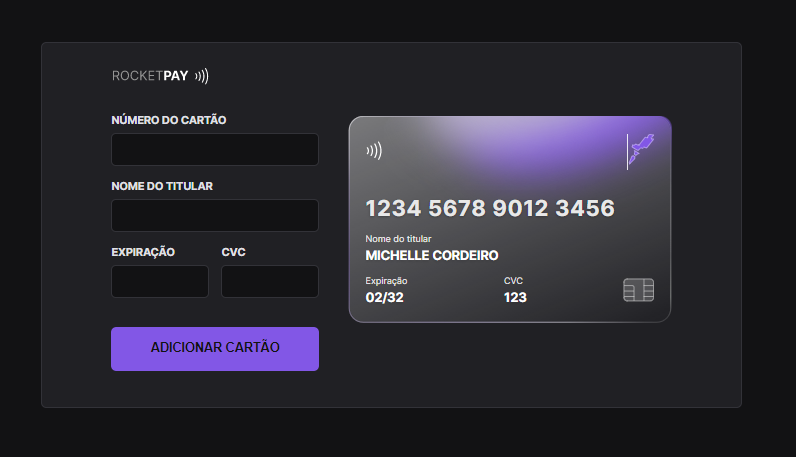
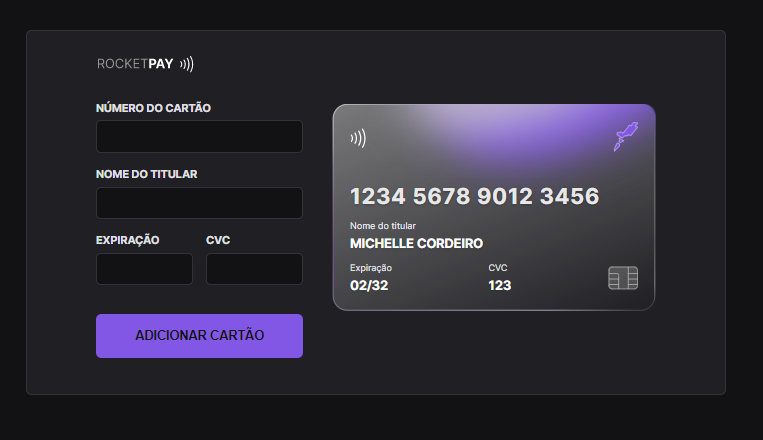
#02: install imask and add masks

diff --git a/src/main.js b/src/main.js
@@ -1,13 +1,10 @@
 import "./css/index.css"
+import IMask from "imask"
 
 const ccBgColor01 = document.querySelector(".cc-bg svg > g g:nth-child(1) path")
 const ccBgColor02 = document.querySelector(".cc-bg svg > g g:nth-child(2) path")
 const ccLogo = document.querySelector(".cc-logo span:nth-child(2) img")
 const ccButton = document.querySelector("form button")
-
-//console.log(ccBgColor01)
-//console.log(ccLogo)
-console.log(ccButton)
 
 function setCardType(type) {
   const colors = {
@@ -23,8 +20,70 @@ function setCardType(type) {
   ccBgColor02.setAttribute("fill", colors[type][1])
   ccLogo.setAttribute("src", `cc-${type}.svg`)
   ccButton.style.backgroundColor = colors[type][0]
-  //ccButton.style.setProperty("red", colors[type][1])
 }
 
-//setCardType("mastercard")  // assim executa a função
+//setCardType("mastercard")
 globalThis.setCardType = setCardType
+
+const securityCode = document.querySelector("#security-code")
+const securityCodePattern = {
+  mask: "0000"
+}
+const securityCodeMask = IMask(securityCode, securityCodePattern)
+
+const expirationDate = document.querySelector("#expiration-date")
+const expirationDatePattern = {
+  mask: "MM{/}YY",
+  blocks: {
+    MM: {
+      mask: IMask.MaskedRange,
+      from: 1,
+      to: 12
+    },
+    YY: {
+      mask: IMask.MaskedRange,
+      from: String(new Date().getFullYear()).slice(2),
+      to: String(new Date().getFullYear() + 10).slice(2)
+    }
+  }
+}
+const expirationDateMask = IMask(expirationDate, expirationDatePattern)
+
+const cardNumber = document.querySelector("#card-number")
+const cardNumberPattern = {
+  mask: [
+    { mask: "0000 0000 0000 0000", regex: /^4\d{0,15}/, cardtype: "visa" },
+    { mask: "0000 000000 00000", regex: /^3[47]\d{0,13}/, cardtype: "american express" },
+    { mask: "0000 000000 0000", regex: /^3(?:0([0-5]|9)|[689]\d?)\d{0,11}/, cardtype: "diners" },
+    { mask: "0000 000000 00000", regex: /^(?:2131|1800)\d{0,11}/, cardtype: "jcb15" },
+    { mask: "0000 0000 0000 0000", regex: /^(?:35\d{0,2})\d{0,12}/, cardtype: "jcb" },
+    { mask: "0000 0000 0000 0000", regex: /^62\d{0,14}/, cardtype: "unionpay" },
+    {
+      mask: "0000 0000 0000 0000",
+      regex: /^(5[1-5]\d{0,2}|22[2-9]\d{0,1}|2[3-7]\d{0,2})\d{0,12}/,
+      cardtype: "mastercard"
+    },
+    {
+      mask: "0000 0000 0000 0000",
+      regex: /^(?:6011|65\d{0,2}|64[4-9]\d?)\d{0,12}/,
+      cardtype: "discover"
+    },
+    {
+      mask: "0000 0000 0000 0000",
+      regex: /^(?:5[0678]\d{0,2}|6304|67\d{0,2})\d{0,12}/,
+      cardtype: "maestro"
+    },
+    {
+      mask: "0000 0000 0000 0000",
+      cardtype: "default"
+    }
+  ],
+  dispatch: function (appended, dynamicMasked) {
+    const number = (dynamicMasked.value + appended).replace(/\D/g, "")
+    const foundMask = dynamicMasked.compiledMasks.find(function (item) {
+      return number.match(item.regex)
+    })
+    return foundMask
+  }
+}
+const cardNumberMask = IMask(cardNumber, cardNumberPattern)

diff --git a/src/testandoRegex.js b/src/testandoRegex.js
@@ -1,0 +1,26 @@
+// REGRA DO CARTÕES
+
+// VISA
+// inicia c 4 seguido de 15 dígitos
+4123456789012345
+
+// MASTER
+//      "("
+// inicia c 5, seguido de um dígitos entre 1 e 5, seguido de mais 2 dígitos
+// ou
+// inicia c 22, seguido de um dígitos entre 2 e 9, seguido de mais 1 dígito
+// ou
+// inicia c 2, seguido de um dígitos entre 3 e 7, seguido de mais 2 dígitos,
+//       ")"
+// seguido de mais 12 dígitos
+
+5353535353535353
+2323232323232323
+2223232323232323
+
+// (^5[1-5]\d{0,2}|^22[2-9]\d|^2[3-7]\d{0,2})\d{0,12}
+
+// PODERIA SER DITO DA SEGUINTE FORMA: assim ele não precisaria
+//    esperar ter o total de dígitos para já identificar a bandeira
+// inicia c 5, seguido de um dígitos entre 1 e 5,
+//    seguido de *ZERO OU* mais 2 dígitos
